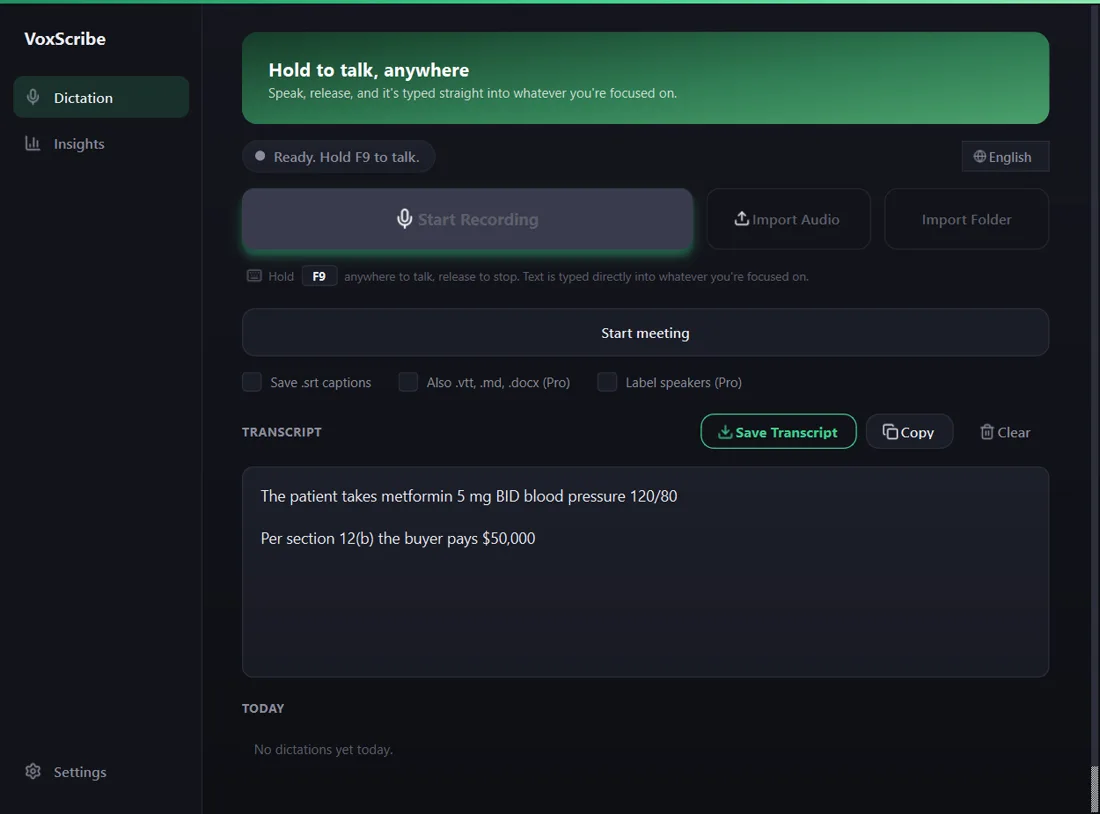
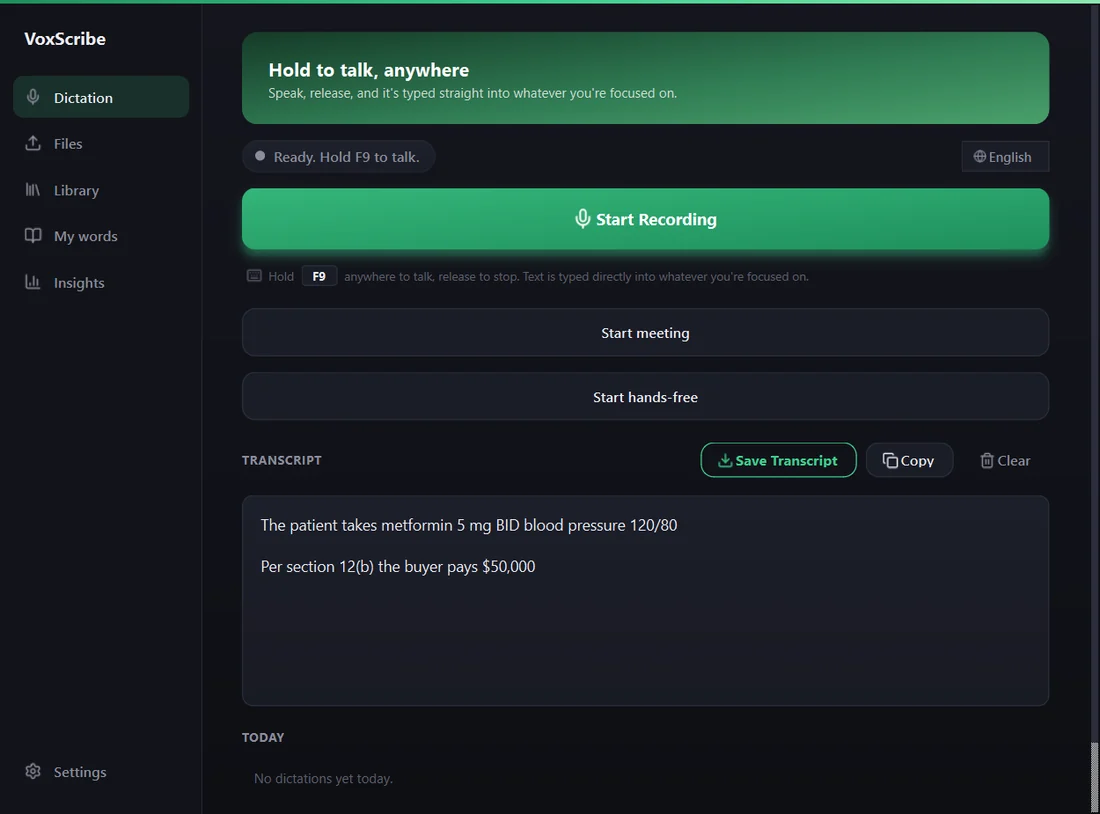
Site: 1.9.0 screenshots, Pro section covers hands-free and the Ask key

diff --git a/docs/index.html b/docs/index.html
@@ -439,7 +439,7 @@ if (!vsSeen && !location.hash && !matchMedia('(prefers-reduced-motion: reduce)')
       <li><b>MIT</b><span>open source license</span></li>
       <li><b>v1.9.0</b><span>Windows, Android v1.1.4</span></li>
     </ul>
-    <h2>It works with the internet off.</h2>
+    <h2>Offline voice typing: it works with the internet off.</h2>
     <div class="switchrow">
       <button class="switch" id="air" type="button" aria-pressed="false"><i aria-hidden="true"></i>Airplane mode</button>
       <span class="airnote" id="air-note" role="status">Switch it on. The words keep coming.</span>
@@ -516,7 +516,7 @@ if (!vsSeen && !location.hash && !matchMedia('(prefers-reduced-motion: reduce)')
       <img src="assets/showcase-main.webp" width="1100" height="814" alt="The VoxScribe dictation page with a transcript." loading="lazy">
     </div>
     <div class="row flip">
-      <div class="txt"><h3>Medicine, law, business and software words, spelled right.</h3><p>Term packs (333 medical, 212 law, 178 business and 144 software terms) fix words like metformin, habeas corpus and Kubernetes with any speech model. Add your own word replacements, or let VoxScribe learn from your voice.</p></div>
+      <div class="txt"><h3>Medicine, law, business and software words, spelled right.</h3><p>Term packs (335 medical, 212 law, 178 business and 144 software terms, about twice as many with Pro) fix words like metformin, habeas corpus and Kubernetes with any speech model. Add your own word replacements, or let VoxScribe learn from your voice.</p></div>
       <img src="assets/showcase-text-packs.webp" width="1100" height="814" alt="VoxScribe text settings showing medical, law and business term packs and word replacements." loading="lazy">
     </div>
     <div class="row">
@@ -661,20 +661,21 @@ if (!vsSeen && !location.hash && !matchMedia('(prefers-reduced-motion: reduce)')
 
 <section id="pro-waitlist" class="pro" data-time="dusk">
   <div class="wrap">
-    <h2>Unlock Snippets &amp; higher accuracy</h2>
-    <p class="big">Snippets (say a trigger phrase, get an expansion typed, with live {date}/{time}/{clipboard} variables), Medium and Large Whisper models for higher accuracy (also for Try harder), dictation modes that switch by app, and whole-folder caption import. One key covers two PCs and two phones. One-time purchase, offline license key, no account, no subscription.</p>
+    <h2>Pro: hands-free mode, the Ask key and bigger word packs</h2>
+    <p class="big">Hands-free mode (talk without holding a key), the Ask key (select text and say what to do with it), word packs with about twice the terms, Snippets (say a trigger phrase, get an expansion typed, with live {date}/{time}/{clipboard} variables), Medium and Large Whisper models for higher accuracy (also for Try harder), dictation modes that switch by app, and whole-folder caption import. One key covers two PCs and two phones. One-time purchase, offline license key, no account, no subscription.</p>
     <div class="table-scroll tiers">
       <table>
         <tr><th></th><th>Free</th><th class="us">Pro</th></tr>
         <tr><td class="first">Dictation into any app, offline</td><td>Included</td><td class="yes">Included</td></tr>
         <tr><td class="first">Filler cleanup, spoken commands, word replacements</td><td>Included</td><td class="yes">Included</td></tr>
-        <tr><td class="first">Term packs and Teach your voice</td><td>Included</td><td class="yes">Also pick packs per app</td></tr>
+        <tr><td class="first">Term packs and Teach your voice</td><td>Included</td><td class="yes">About twice the terms, and packs per app</td></tr>
         <tr><td class="first">Whisper models</td><td>Tiny, Base and Small</td><td class="yes">Also Medium, Large turbo and Large</td></tr>
         <tr><td class="first">Try harder (F8)</td><td>Up to Small</td><td class="yes">Up to Medium or Large</td></tr>
         <tr><td class="first">Dictation modes</td><td>Chat, Email and Notes</td><td class="yes">Also Code, and switching by app</td></tr>
         <tr><td class="first">Snippets and fill-in templates</td><td class="no">Not included</td><td class="yes">Included</td></tr>
         <tr><td class="first">Smart formatting and code dictation</td><td class="no">Not included</td><td class="yes">Included</td></tr>
         <tr><td class="first">Per-app profiles and a second language key</td><td class="no">Not included</td><td class="yes">Included</td></tr>
+        <tr><td class="first">Hands-free mode and the Ask key</td><td>3 free tries each</td><td class="yes">No limit</td></tr>
         <tr><td class="first">Fill forms by voice, rewrite assistant, links from the web</td><td>3 free tries each</td><td class="yes">No limit</td></tr>
         <tr><td class="first">Whole folders of files</td><td>2 free runs</td><td class="yes">No limit</td></tr>
         <tr><td class="first">Export formats</td><td>.txt and .srt</td><td class="yes">Also .vtt, .md and .docx, with speaker labels</td></tr>
